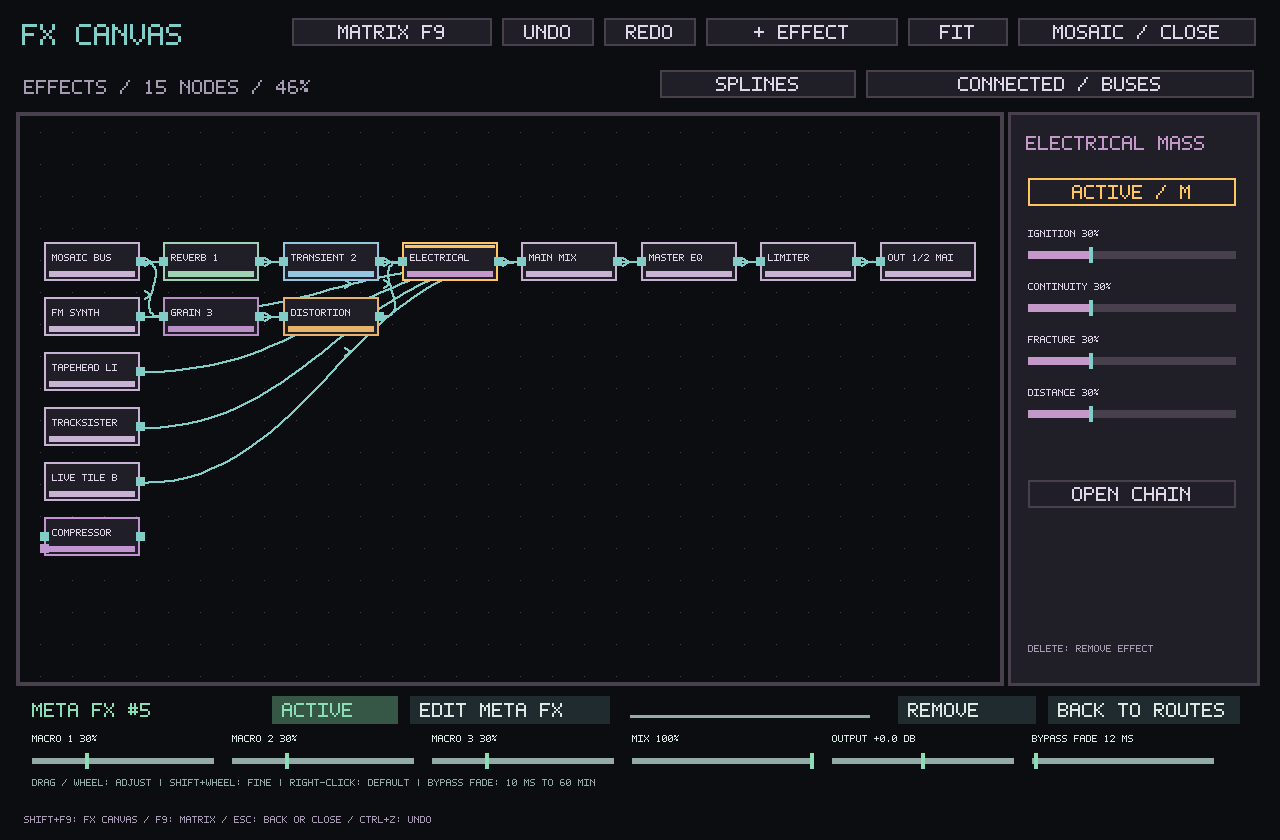
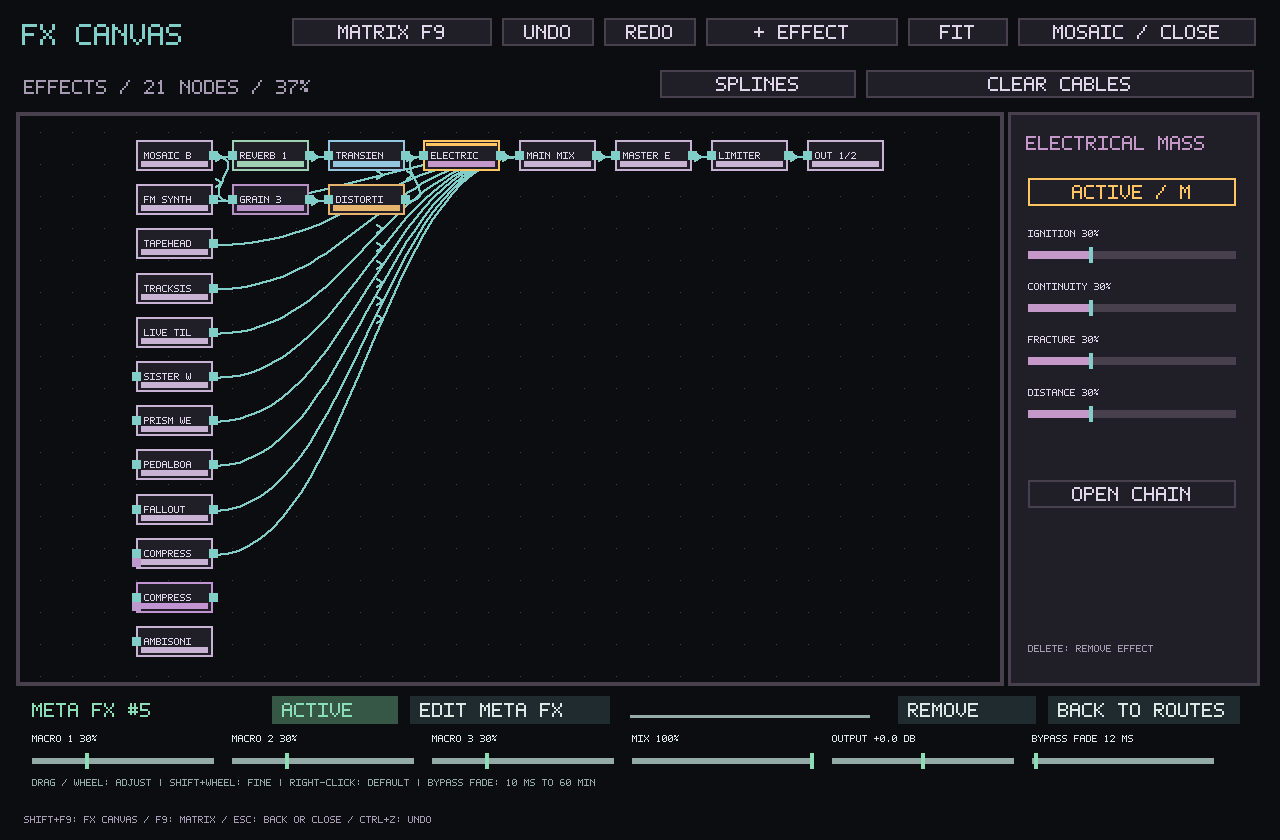
Keep disconnected FX patches intact and independently editable
Show the processor inventory and save initial node positions independently of cable reachability. Separate cable and module selection, expose Matrix Clear All on the canvas, and restore editable fresh-session defaults. Exercise Main to Prism with and without a parallel path, repeated Delete, rendered silence, undo and reopening an empty patch.

Changed region(s): [[0.0312, 0.1548, 0.7812, 0.8048], [0.75, 0.0929, 0.9062, 0.1238], [0.2188, 0.0929, 0.25, 0.1238]]

diff --git a/tests/test_fx_canvas_controller.c b/tests/test_fx_canvas_controller.c
@@ -102,7 +102,7 @@ static void canvas_gestures(uint32_t id)
     click(700,80,1);assert(!l->canvas_straight);
     assert(fx_cable(100,200,400,400,0,0,250,300)<1);
     /* Every available endpoint plus successive additions must fit below 20%. */
-    w->input_ports=64;mx_rows(&pages,&bank);fx_canvas.all=1;fx_build(&pages,&bank);
+    w->input_ports=64;mx_rows(&pages,&bank);fx_build(&pages,&bank);
     for(int i=0;i<TS_MATRIX_EFFECT_CAPACITY;++i)if(!w->controls.effect[i].id)mx_effect_add(0,&audio,&ui,&pages,&bank,TS_SISTER_FX_DELAY);
     w->filter=0;mx_rows(&pages,&bank);fx_build(&pages,&bank);
     key(SDLK_a,KMOD_CTRL);assert(w->selection_count==fx_canvas.count);key(SDLK_z,KMOD_SHIFT);
@@ -116,6 +116,130 @@ static void canvas_gestures(uint32_t id)
     fx_view(0,&pages,&bank);click(100,65,1);assert(w->canvas);
     assert(TS_MOSAIC_FX_X+TS_MOSAIC_FX_W<=530);
 }
+static TsStereoFrame through(void *context,int node,TsStereoFrame input)
+{
+    (void)context;(void)node;
+    return input;
+}
+
+static float settled_output(void)
+{
+    TsStereoFrame live[TS_MATRIX_ROWS-TS_MATRIX_NODES]={0};
+    live[TS_MATRIX_MOSAIC-TS_MATRIX_NODES]=(TsStereoFrame){.25f,.25f};
+    for(int i=0;i<4096;++i) {
+        TsSourceRouteMix mix={0};
+        ts_matrix_process(&audio.sister.matrix,&mix,live,through,NULL);
+    }
+    return audio.sister.matrix.output[0].l;
+}
+
+static void disconnect_main_prism(void)
+{
+    MatrixWindow *w=&matrix_window;
+    static TsMatrixControls patch,just_one_cable,expected;
+    patch=w->controls;
+    for(int i=0;i<TS_MATRIX_ROWS;++i) {
+        memset(patch.row[i].matrix_gain,0,sizeof(patch.row[i].matrix_gain));
+        patch.delayed[i]=0;
+    }
+    int fx_from=TS_MATRIX_EFFECT_BASE,fx_to=TS_MATRIX_EFFECT_BASE+1;
+    assert(patch.effect[0].id && patch.effect[1].id);
+    patch.row[fx_from].matrix_gain[fx_to]=730;
+    patch.serial_mask=(1u<<TS_MATRIX_MAIN)|(1u<<TS_MATRIX_PRISM);
+    patch.main_headroom=TS_MATRIX_HEADROOM_FLOAT;patch.board_insert=1;
+    patch.row[TS_MATRIX_PRISM].pan=-20;
+    patch.row[TS_MATRIX_MOSAIC].matrix_gain[TS_MATRIX_MAIN]=1000;
+    patch.row[TS_MATRIX_MAIN].matrix_gain[TS_MATRIX_PRISM]=1000;
+    patch.row[TS_MATRIX_PRISM].matrix_gain[TS_MATRIX_BOARD]=750;
+    patch.row[TS_MATRIX_BOARD].matrix_gain[TS_MATRIX_EQ]=900;
+    patch.row[TS_MATRIX_EQ].matrix_gain[TS_MATRIX_LIMITER]=1000;
+    patch.row[TS_MATRIX_LIMITER].matrix_gain[TS_MATRIX_NODES]=1000;
+    assert(ts_matrix_set(&audio.sister.matrix,&patch,48000));
+    w->controls=ui.config.matrix=patch;
+    assert(settled_output()>.1f);
+    w->input_ports=2;mx_rows(&pages,&bank);
+    ts_matrix_layout_default(w->layout);
+    /* Leave downstream processors in their automatic positions. */
+    TsFxCanvasPosition *main_pos=fx_position((MatrixRow){.kind=2,.index=TS_MATRIX_MAIN},1);
+    TsFxCanvasPosition *prism_pos=fx_position((MatrixRow){.kind=2,.index=TS_MATRIX_PRISM},1);
+    main_pos->x=0;main_pos->y=0;prism_pos->x=400;prism_pos->y=0;
+    TsFxCanvasPosition *fx_source_pos=fx_position((MatrixRow){.kind=4,.tile=patch.effect[0].id},1);
+    TsFxCanvasPosition *fx_target_pos=fx_position((MatrixRow){.kind=4,.tile=patch.effect[1].id},1);
+    fx_source_pos->x=0;fx_source_pos->y=240;fx_target_pos->x=400;fx_target_pos->y=240;
+    w->layout->canvas_view=1;w->layout->canvas_x=30;w->layout->canvas_y=80;w->layout->canvas_zoom=1;
+    fx_build(&pages,&bank);
+    int count=fx_canvas.count;
+    FxCanvasNode *before=malloc(count*sizeof(*before));assert(before);
+    memcpy(before,fx_canvas.node,count*sizeof(*before));
+    /* Select modules first, then click their cable and hit Delete twice. */
+    key(SDLK_a,KMOD_CTRL);
+    click(fx_x(305),fx_y(240+FX_NODE_H*.5f),1);
+    assert(fx_canvas.wire>=0 && fx_canvas.source.index==fx_from && fx_canvas.destination==fx_to);
+    key(SDLK_DELETE,0);key(SDLK_DELETE,0);
+    just_one_cable=patch;just_one_cable.row[fx_from].matrix_gain[fx_to]=0;
+    assert(!memcmp(&just_one_cable,&audio.sister.matrix.controls,sizeof(patch)));
+    key(SDLK_z,KMOD_CTRL);
+    assert(!memcmp(&patch,&audio.sister.matrix.controls,sizeof(patch)));
+    for(int alternate=0;alternate<=1;++alternate) {
+        if(alternate) {
+            /* Patch Main directly to EQ while Main -> Prism still exists. */
+            FxCanvasNode *eq=node(TS_MATRIX_EQ);assert(eq);
+            pointer(SDL_MOUSEBUTTONDOWN,fx_x(FX_NODE_W),fx_y(FX_NODE_H*.5f),SDL_BUTTON_LEFT,1);
+            pointer(SDL_MOUSEBUTTONUP,fx_x(eq->x),fx_y(eq->y+FX_NODE_H*.5f),SDL_BUTTON_LEFT,1);
+            patch.row[TS_MATRIX_MAIN].matrix_gain[TS_MATRIX_EQ]=1000;
+            assert(!memcmp(&patch,&audio.sister.matrix.controls,sizeof(patch)));
+        }
+        click(fx_x(305),fx_y(FX_NODE_H*.5f),1);
+        assert(fx_canvas.wire>=0 && fx_canvas.source.index==TS_MATRIX_MAIN && fx_canvas.destination==TS_MATRIX_PRISM);
+        key(SDLK_DELETE,0);
+        expected=patch;
+        expected.row[TS_MATRIX_MAIN].matrix_gain[TS_MATRIX_PRISM]=0;
+        assert(!memcmp(&expected,&audio.sister.matrix.controls,sizeof(expected)));
+        fx_build(&pages,&bank);
+        assert(fx_canvas.count==count);
+        for(int i=0;i<count;++i) {
+            assert(mx_same(before[i].row,fx_canvas.node[i].row));
+            assert(before[i].x==fx_canvas.node[i].x && before[i].y==fx_canvas.node[i].y);
+        }
+        assert(alternate?settled_output()>.1f:settled_output()==0);
+        key(SDLK_DELETE,0); /* A second Delete after a disconnect has no module target. */
+        assert(!memcmp(&expected,&audio.sister.matrix.controls,sizeof(expected)));
+        key(SDLK_z,KMOD_CTRL);
+        assert(!memcmp(&patch,&audio.sister.matrix.controls,sizeof(patch)));
+    }
+    click(1000,82,1);
+    for(int i=0;i<TS_MATRIX_ROWS;++i)for(int d=0;d<TS_MATRIX_DESTINATIONS;++d)
+        assert(!w->controls.row[i].matrix_gain[d]);
+    assert(settled_output()==0);
+    assert(w->controls.serial_mask==patch.serial_mask && w->controls.board_insert==patch.board_insert);
+    assert(w->controls.main_headroom==patch.main_headroom && w->controls.row[TS_MATRIX_PRISM].pan==-20);
+    fx_build(&pages,&bank);
+    /* Clearing also exposes explicit, empty track rows. Every old node still exists. */
+    for(int i=0;i<count;++i) {
+        int j=0;while(j<fx_canvas.count && !mx_same(before[i].row,fx_canvas.node[j].row))++j;
+        assert(j<fx_canvas.count && before[i].x==fx_canvas.node[j].x && before[i].y==fx_canvas.node[j].y);
+    }
+    assert(!memcmp(patch.effect,w->controls.effect,sizeof(patch.effect)));
+    view_codec();
+    static TsSisterProjectState saved,loaded;
+    const char *file="fx-disconnected-project-test.ini";
+    char error[256];int present=0;
+    ts_sister_project_state_capture(&saved,&audio.sister,1,"unpatched");
+    assert(ts_sister_project_state_save_file(&saved,file,error,sizeof(error)));
+    assert(ts_sister_project_state_load_file(&loaded,file,48000,&present,error,sizeof(error)) && present);
+    assert(!memcmp(loaded.matrix.row,w->controls.row,sizeof(loaded.matrix.row)));
+    assert(!memcmp(loaded.matrix.effect,w->controls.effect,sizeof(loaded.matrix.effect)));
+    assert(!memcmp(&loaded.matrix_layout,w->layout,sizeof(loaded.matrix_layout)));
+    TsSisterRuntime *reopened=malloc(sizeof(*reopened));assert(reopened);
+    ts_sister_runtime_init(reopened);
+    assert(ts_sister_project_state_apply(&loaded,reopened,NULL));
+    assert(!memcmp(reopened->matrix.controls.row,w->controls.row,sizeof(w->controls.row)));
+    assert(!memcmp(reopened->matrix.controls.effect,w->controls.effect,sizeof(w->controls.effect)));
+    ts_sister_runtime_free(reopened);free(reopened);remove(file);
+    key(SDLK_z,KMOD_CTRL);
+    assert(!memcmp(&patch,&audio.sister.matrix.controls,sizeof(patch)));
+    free(before);
+}
 static void routing_preferences(void)
 {
     static TsConfig loaded;char error[256];const char *path="test-fx-session-preferences.ini";
@@ -123,12 +247,12 @@ static void routing_preferences(void)
     snprintf(ui.config.matrix.output_name[0],TS_MATRIX_NAME,"MAIN OUTPUT");
     assert(ts_audio_main_config_write(&ui.config,path,error,sizeof(error)));
     assert(ts_audio_config_load(&loaded,path,error,sizeof(error)));
-    assert(!loaded.matrix.enabled && !loaded.matrix.effect[0].id);
+    assert(loaded.matrix.enabled && !loaded.matrix.effect[0].id);
     assert(!strcmp(loaded.matrix.input_name[0],"REVERB RETURN"));
     /* Also ignore a pre-fix INI containing a live graph on startup. */
     assert(ts_audio_config_save(&ui.config,path,error,sizeof(error)));
     assert(ts_audio_main_config_load(&loaded,path,error,sizeof(error)));
-    assert(!loaded.matrix.enabled && !loaded.matrix.effect[0].id);
+    assert(loaded.matrix.enabled && !loaded.matrix.effect[0].id);
     assert(!strcmp(loaded.matrix.output_name[0],"MAIN OUTPUT"));
     assert(ui.config.matrix.enabled && ui.config.matrix.effect[0].id);
     ts_live_config=&ui.config;remove(path);
@@ -168,10 +292,11 @@ int main(int argc,char **argv)
     }
     /* A spatial drag is saved/undoable without replacing a live processor. */
     FxCanvasNode *n=instance(c.effect[meta].id);int x=fx_x(n->x)+20,y=fx_y(n->y)+20;
+    int placed=matrix_window.layout->canvas_count;float original_x=n->x;
     pointer(SDL_MOUSEBUTTONDOWN,x,y,SDL_BUTTON_LEFT,1);pointer(SDL_MOUSEMOTION,x+30,y+20,0,0);pointer(SDL_MOUSEBUTTONUP,x+30,y+20,SDL_BUTTON_LEFT,1);
-    assert(matrix_window.layout->canvas_count==1 && audio.sister.matrix_effects.current[rev]==history);
-    view_codec();key(SDLK_z,KMOD_CTRL);assert(!matrix_window.layout->canvas_count && audio.sister.matrix_effects.current[rev]==history);
-    key(SDLK_y,KMOD_CTRL);assert(matrix_window.layout->canvas_count==1);fx_build(&pages,&bank);
+    assert(fx_position(n->row,0)->x!=original_x && audio.sister.matrix_effects.current[rev]==history);
+    view_codec();key(SDLK_z,KMOD_CTRL);assert(matrix_window.layout->canvas_count==placed && fx_position(n->row,0)->x==original_x && audio.sister.matrix_effects.current[rev]==history);
+    key(SDLK_y,KMOD_CTRL);assert(fx_position(n->row,0)->x!=original_x);fx_build(&pages,&bank);
     n=instance(c.effect[meta].id);click(fx_x(n->x)+20,fx_y(n->y)+20,2);assert(fx_canvas.meta==c.effect[meta].id);
     float before=matrix_window.controls.effect[meta].meta.macro[0];click(230,744,1);
     assert(matrix_window.controls.effect[meta].meta.macro[0]>before && audio.sister.matrix_effects.current[rev]==history);
@@ -208,7 +333,7 @@ int main(int argc,char **argv)
     SDL_Event e;SDL_zero(e);e.type=SDL_MOUSEBUTTONDOWN;e.button.windowID=SDL_GetWindowID(main_window);e.button.button=SDL_BUTTON_LEFT;
     e.button.x=(TS_MOSAIC_FX_X+10)*2;e.button.y=(TS_MOSAIC_FX_Y+5)*2;assert(event(&e));assert(matrix_window.visible && matrix_window.canvas);
     SDL_SetWindowSize(matrix_window.window,1001,701);fx_paint(&audio,&pages,&bank);
-    canvas_gestures(c.effect[dist].id);routing_preferences();
+    canvas_gestures(c.effect[dist].id);disconnect_main_prism();routing_preferences();
     matrix_close();meta_fx_close();ts_sister_runtime_free(&audio.sister);ts_sample_pages_free(&pages);ts_instrument_free(&bank);SDL_DestroyWindow(main_window);SDL_Quit();
-    puts("FX Canvas graph sharing, view history, stable identities, nested chain, macros and entry points passed.");return 0;
+    puts("FX Canvas controller passed, including single-cable disconnect, alternative path, silent clear, undo and project recall.");return 0;
 }

diff --git a/include/tapesister/matrix_layout.h b/include/tapesister/matrix_layout.h
@@ -9,7 +9,10 @@
    Tracks and fixed buses use their index; tiles/cards/effect instances use their stable identity. */
 enum { TS_MATRIX_LAYOUT_PAGES=1024,
        TS_MATRIX_LAYOUT_ROWS=TS_TRACKER_LANES+TS_MATRIX_LAYOUT_PAGES*TS_BANK_SLOT_COUNT+TS_MATRIX_ROWS+TS_MOSAIC_EVENTS };
-enum { TS_FX_CANVAS_POSITIONS=256 };
+/* Keep room for all processors and interface endpoints even when the player
+   has positioned the full complement of individual track/tile/card sources. */
+enum { TS_FX_CANVAS_SOURCE_POSITIONS=256,
+       TS_FX_CANVAS_POSITIONS=TS_FX_CANVAS_SOURCE_POSITIONS+TS_MATRIX_ROWS+TS_MATRIX_DESTINATIONS };
 typedef struct { uint64_t id; int kind; float x,y; } TsFxCanvasPosition;
 typedef struct {
     uint64_t row_id[TS_MATRIX_LAYOUT_ROWS];

diff --git a/docs/FX_CANVAS.md b/docs/FX_CANVAS.md
@@ -29,12 +29,15 @@ Inherited track-to-tile routing remains inspectable in the Matrix.
   around the pointer. **Z** frames selected nodes; **Shift+Z**, FIT or Home frames
   the whole graph. Fit includes all endpoints and can zoom below 20%.
   Layout, pan, zoom and cable style save with the project.
-  View edits are undoable and never reset processor histories. Up to 256 manually
-  positioned nodes are retained; other nodes use the automatic layout. Positions
+  View edits are undoable and never reset processor histories. The project stores processor and I/O positions, plus up to 256 manually
+  positioned track, tile or card sources. Additional sources occupy their own lane. Positions
   use stable effect identities so a replacement instance cannot inherit an old
   processor's placement.
-- CONNECTED / BUSES shows the working network. ALL ENDPOINTS also exposes the
-  fixed processors and available input endpoints. Closed output ports say N/A.
+- Every processor stays on the canvas, including a completely isolated effect
+  or a chain disconnected from Main. Select a cable and press Delete to remove
+  that one connection. You can leave any module unpatched. CLEAR CABLES runs
+  the Matrix’s Clear All command and can be undone. Open and named interface
+  ports are available to patch. Closed output ports say N/A.
 - Undo/Redo and Ctrl+Z/Ctrl+Y are shared with the Matrix. Audition keys pass through
   to the instrument. MOSAIC / CLOSE returns to Mosaic without stopping audio.
 
